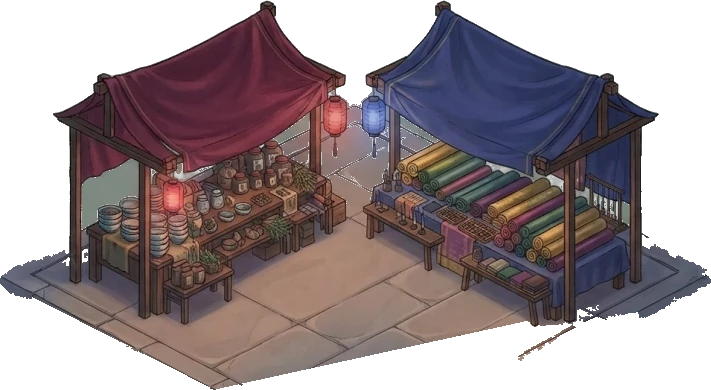
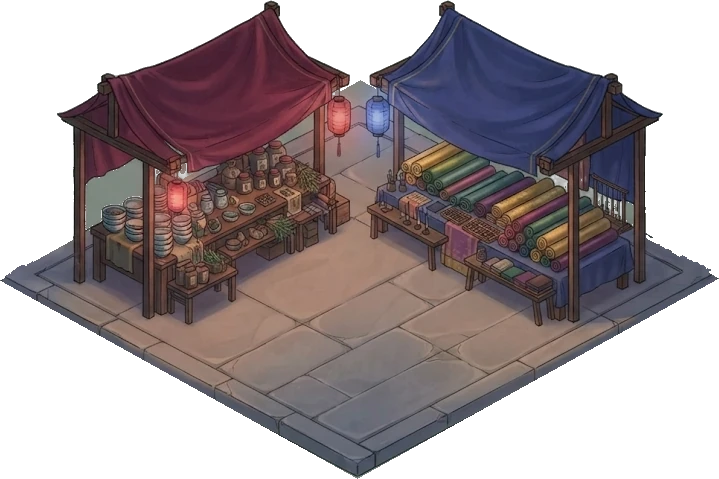
Seat the market stalls' floor properly
The stalls' paving is so close to Gemini's backdrop that the cut-out lost
most of it, and it was rebuilt from the wrong corners: a skewed slab with
ragged edges. Its corners are now measured by hand (make_town_kit BASES),
so the floor comes back whole and square, and its footprint is square too.

Claude-Session: https://claude.ai/code/session_018PQaDNMJFyDFFKL6zLMtCE

diff --git a/scripts/make_town_kit.py b/scripts/make_town_kit.py
@@ -39,6 +39,9 @@ OUT = os.path.join(ROOT, "art", "maps", "town")
 PROP_BOXES = {"well": (455, 150, 580, 330)}
 FLUSH = {"pond", "pine", "blossom", "boulders", "bush", "rack", "barrels", "herbrack"}
 BAND = {"pine": 0.3, "blossom": 0.3}      # where the base is looked for: the lowest share of the picture (trees: low)
+# a base whose stone is so close to the backdrop that the cut-out loses most of it: its corners in the picture
+# (left, right, bottom), measured by hand, so the floor is put back whole and where it really is
+BASES = {"stalls": ((150, 336), (868, 334.5), (507.5, 534))}
 SLOPE = 0.58                        # Gemini draws its tiles a little steeper than 2:1
 WALL = {"cut": 290, "bottom": (293, 505), "end": (880, 228), "thick": 44}   # px in the wall picture
 
@@ -55,7 +58,7 @@ def save(name, im, kit, base=True):
     kit[name] = {"w": im.width, "h": im.height, **(corners(im) if base else {})}
 
 
-def building(path, session):
+def building(path, session, corners_at=None):
     from PIL import ImageDraw
     old = npc.HOLE
     npc.HOLE = 2500                         # gaps a building shuts in (between its posts) are bigger than a person's
@@ -63,16 +66,24 @@ def building(path, session):
         im = npc.cut(path, session, crop=False)
     finally:
         npc.HOLE = old
-    a = np.asarray(im)[:, :, 3] > 128
-    ys, xs = np.nonzero(a)
-    left = (xs.min(), ys[xs == xs.min()].mean())
-    right = (xs.max(), ys[xs == xs.max()].mean())
-    bottom = (xs[ys == ys.max()].mean(), ys.max())
+    if corners_at:
+        left, right, bottom = corners_at
+    else:
+        a = np.asarray(im)[:, :, 3] > 128
+        ys, xs = np.nonzero(a)
+        left = (xs.min(), ys[xs == xs.min()].mean())
+        right = (xs.max(), ys[xs == xs.max()].mean())
+        bottom = (xs[ys == ys.max()].mean(), ys.max())
     top = (left[0] + right[0] - bottom[0], left[1] + right[1] - bottom[1])
     base = Image.new("L", im.size, 0)
     ImageDraw.Draw(base).polygon([left, bottom, right, top], fill=255)
     src = Image.open(path).convert("RGBA")
     im = Image.composite(src, im, base)                    # the base diamond as painted, whole
+    if corners_at:                                         # nothing outside the base's own outline below its top
+        a = np.asarray(im).copy()
+        yy, xx = np.mgrid[0:im.height, 0:im.width]
+        a[(yy > min(left[1], right[1])) & ((xx < left[0]) | (xx > right[0]) | (np.asarray(base) == 0)), 3] = 0
+        im = Image.fromarray(a)
     return im.crop(im.getbbox())
 
 
@@ -153,7 +164,7 @@ def main(pairs):
                     pic.save(os.path.join(OUT, f"{n}.webp"), "WEBP", quality=90, method=6)
                     kit[n] = {"w": pic.width, "h": pic.height, **cc}
             continue
-        im = building(src, session)
+        im = building(src, session, BASES.get(name))
         save(name, im, kit)
         save(name + "_m", ImageOps.mirror(im), kit)
     json.dump(kit, open(path, "w"), indent=1, sort_keys=True)

diff --git a/web/town.py b/web/town.py
@@ -68,7 +68,7 @@ BUILDINGS = [
     # along the north-east wall: the row house and a house; the market stalls face the plaza
     _b("rowhouse", "rowhouse", 16.4, 3.0, 8.0, 3.6, mirror=True),
     _b("house_ne", "house", 24.6, 3.2, 3.4, mirror=True),
-    _b("stalls", "stalls", 11.2, 7.4, 7.8, 3.4, mirror=True),
+    _b("stalls", "stalls", 13.4, 6.6, 5.0, mirror=True),
     # the west: the forge, the herb shop and its drying rack
     _b("forge", "forge", 3.4, 10.4, 4.8),
     _b("herbrack", "herbrack", 8.4, 15.2, 2.2),
